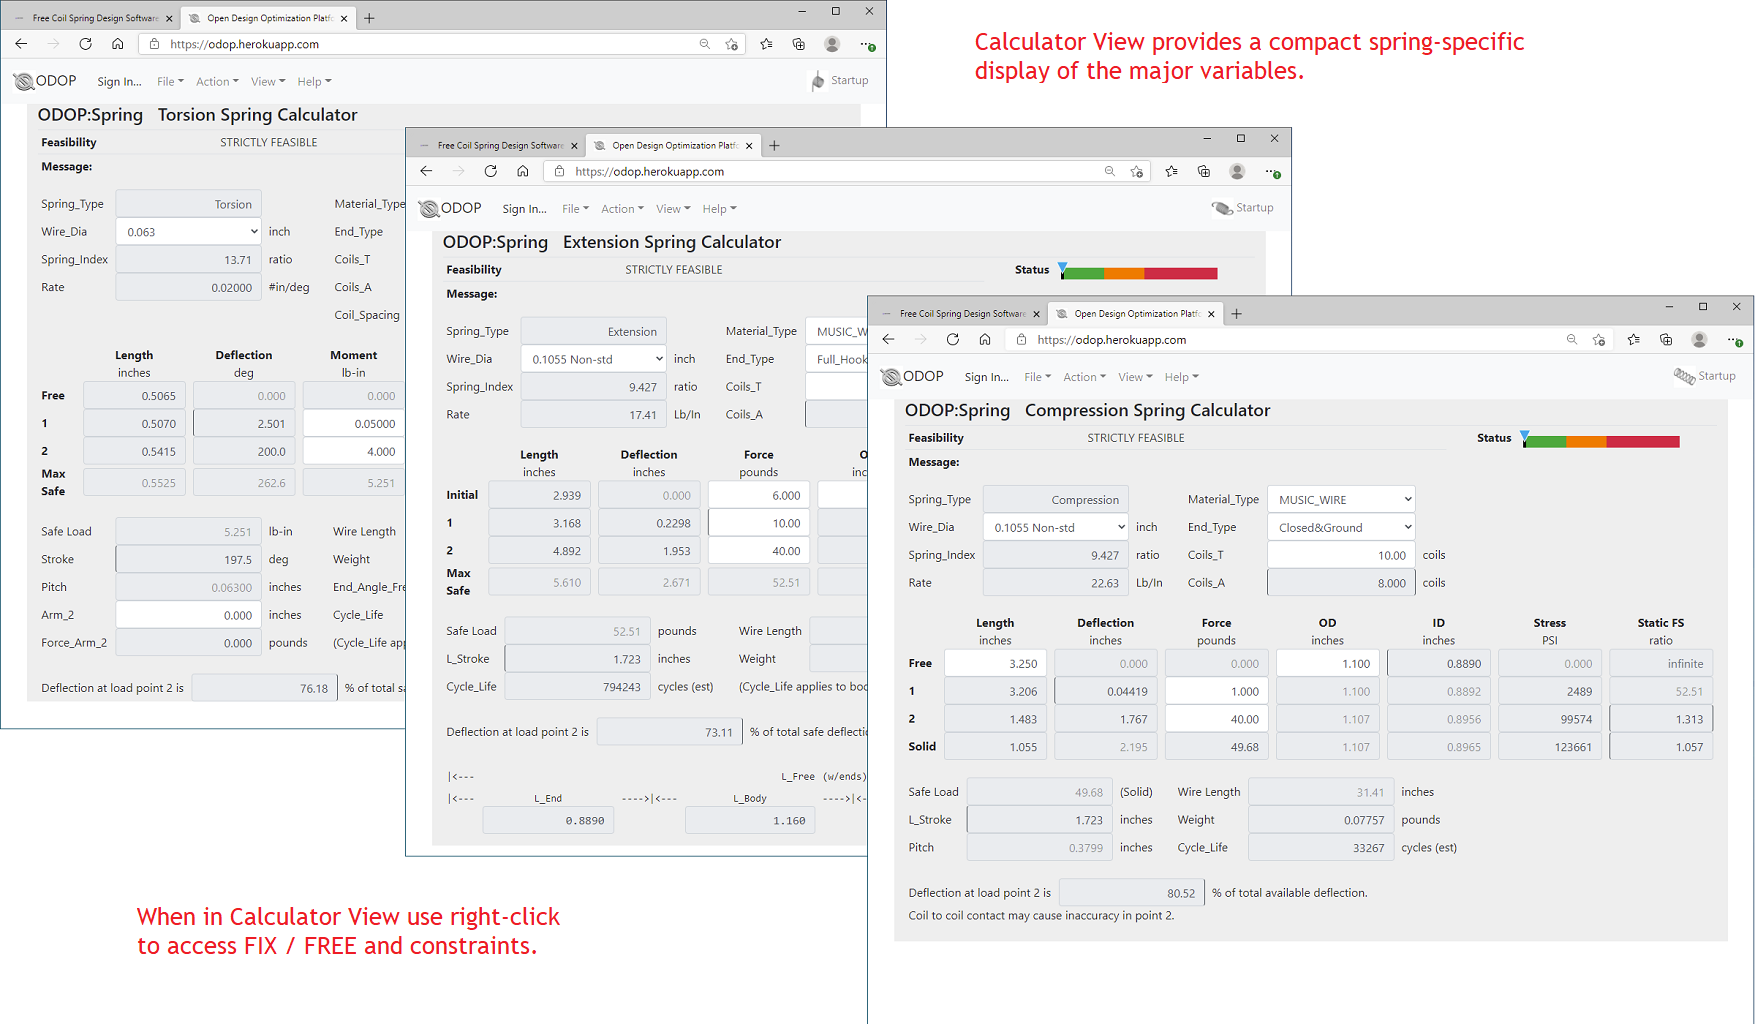
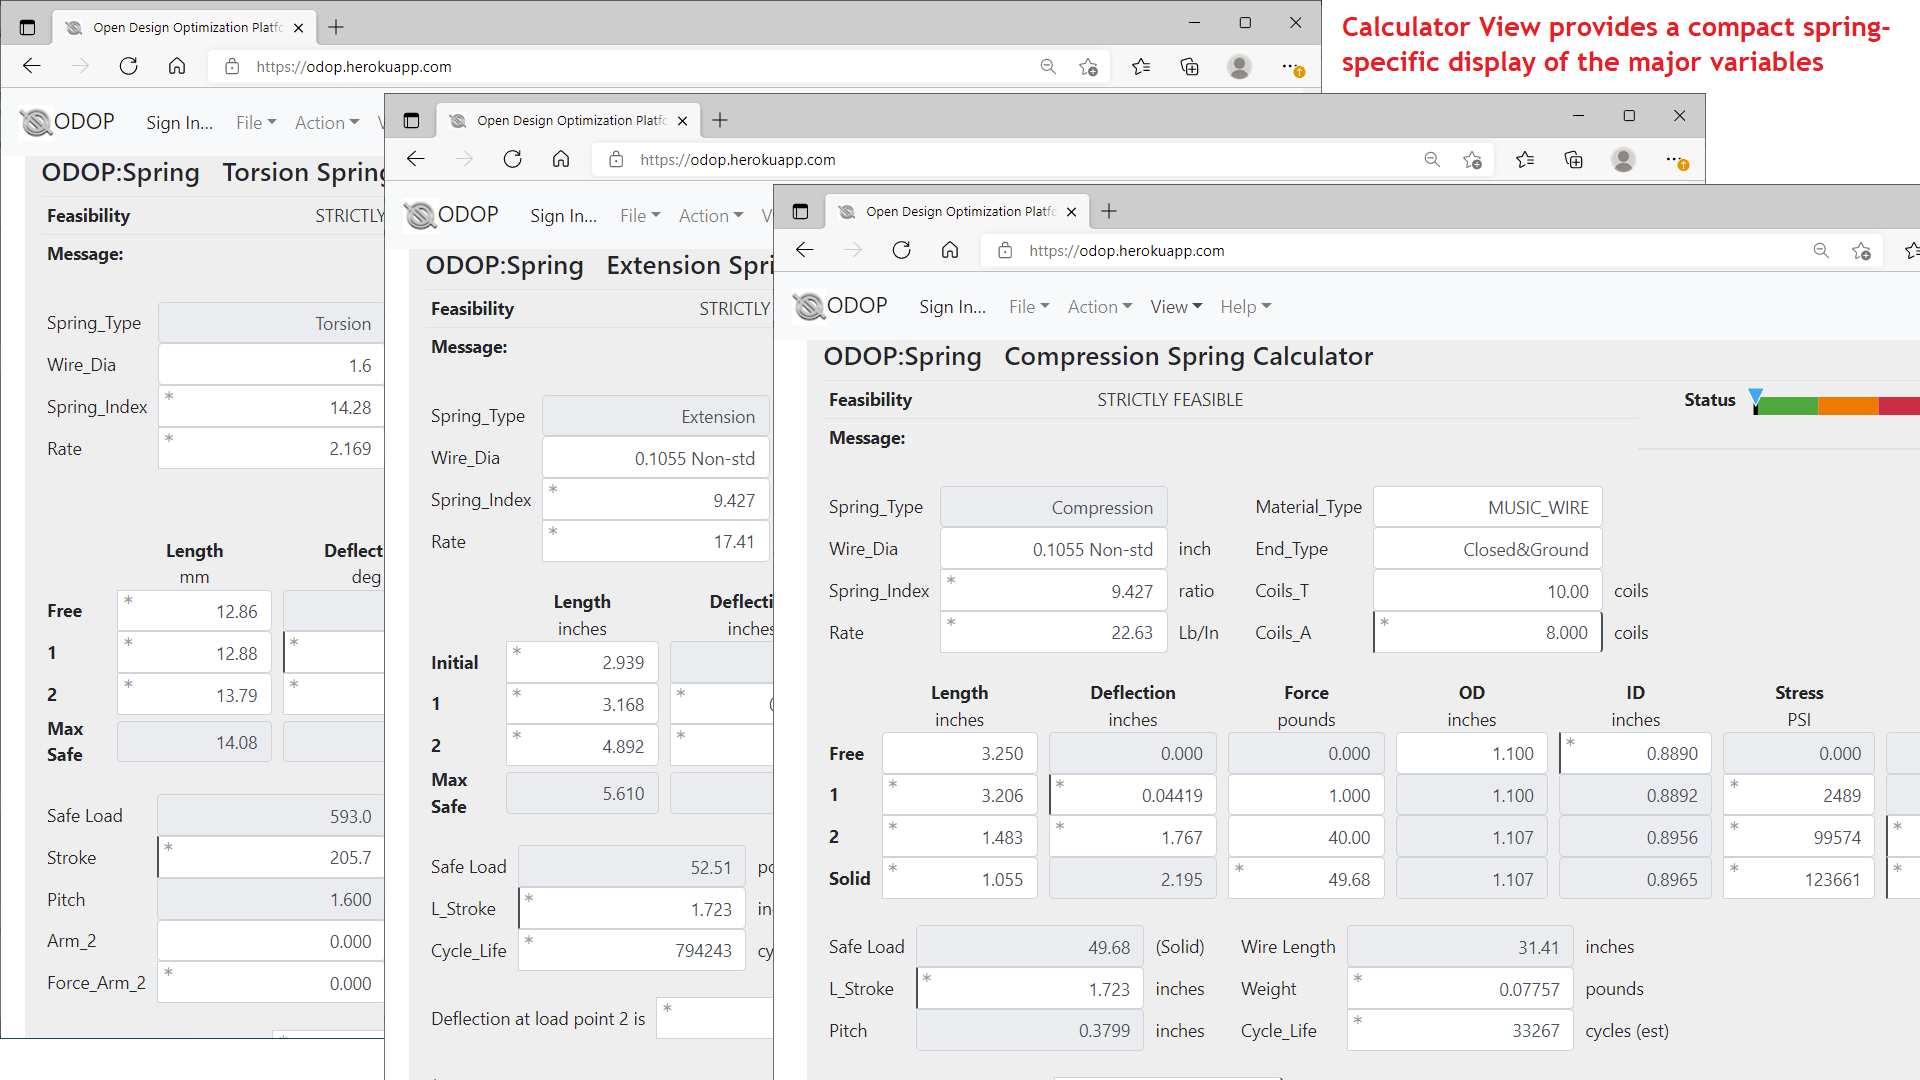
618  Doc improvements for version 4.1 (continued)
Update scrCap images of Calculator View

diff --git a/docs/Help/gettingStarted.md b/docs/Help/gettingStarted.md
@@ -76,12 +76,10 @@ This screen clip illustrates how to get to the index of Help pages.
 
 &nbsp;
 
-At the upper right of the main page you see a "tab" with the name "Design:",
+At the upper right of the main page you see 
 an icon associated with the design type (a rectangular box in this case) and
 the name of the specific design that is currently open.
-As illustrated later, Spring designs will each have 
-three additional tabs providing Reports.   
-![Tab - Icon - Name](./png/TabIconName.png "Tab - Icon - Name")   
+![Design Type Icon - Design Name](./png/TabIconName.png "[Design Type Icon - Design Name")   
 
 &nbsp;
 
